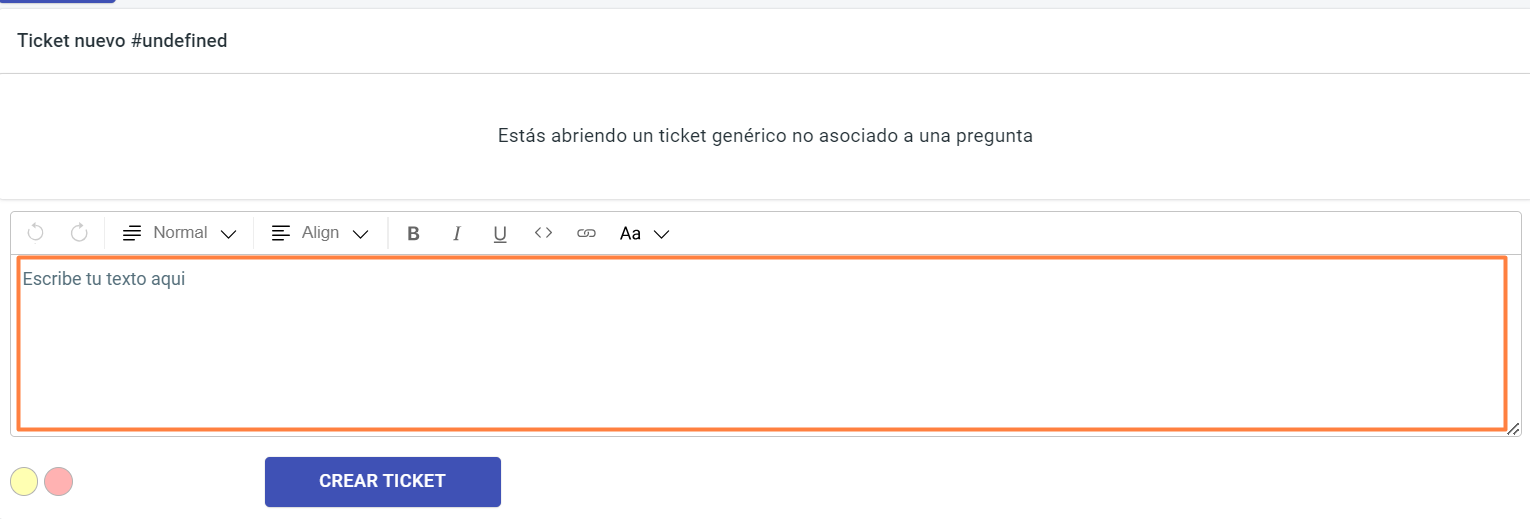
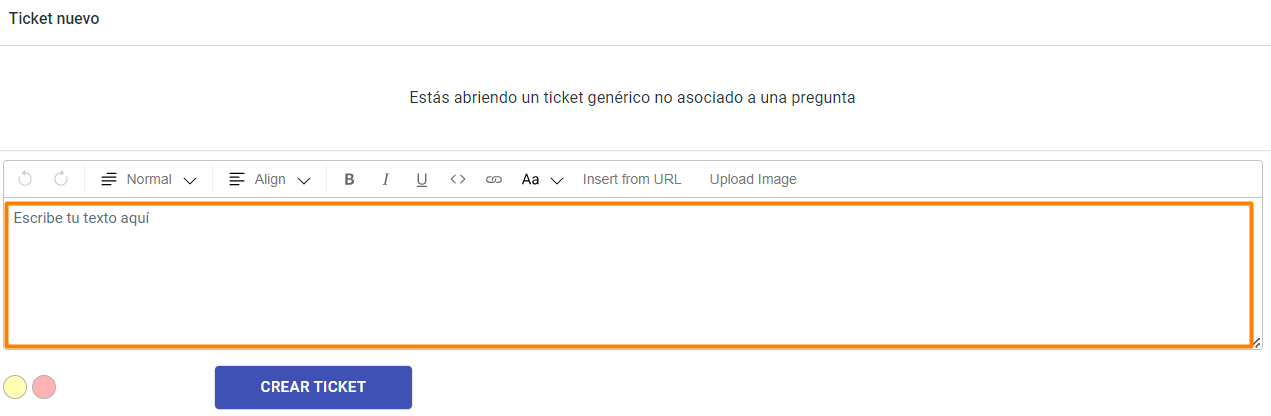
7 10 7

diff --git a/content/docs/Preguntas_de_Mercado_libre/Historico/historico.md b/content/docs/Preguntas_de_Mercado_libre/Historico/historico.md
@@ -34,43 +34,3 @@ Para visualizar el histórico de preguntas:
 {{< figure width="700px" height="500px" src="/images/general/historico5.png" >}}
 9. Si deseas borrar los filtros seleccionados, presiona el botón LIMPIAR.
 {{< figure width="700px" height="500px" src="/images/general/historico6.png" >}}
-
-### Información disponible para cada pregunta del Histórico
-
-A continuación se describirá la información que puedes visualizar para cada pregunta contenida dentro del listado Histórico.
-1. En la sección superior se detallan:
-{{< figure width="840px" height="600px" src="/images/general/historico8.png" >}}
-    1. Título de la publicación. Presionando sobre la misma se abrirá en una nueva ventana la publicación en Mercado Libre.
-    2. Información sobre la publicación consultada: Precio, stock y estado.
-    3. Usuario y Ubicación: informa el nickname del usuario que realiza la pregunta y su ubicación.
-    4. Id: id ítem corresponde al id de la publicación asociada a la pregunta (en caso de que corresponda también se mostrará el SKU y/o el GTIN) y debajo el ID de la pregunta.
-    5. Estado: Hace referencia al estado de la pregunta. Los estados posibles son: Procesada, No procesada, Recibida, Eliminada y Error.
-    6. Subestado: Cada pregunta tiene un subestado. En el subestado se detalla, por ejemplo, si la respuesta se envió en modo Automático (Automática) o fue generada la respuesta y quedó pendiente para revisión y envío manual (Manual).
-    7. Indica la configuración que definió el comportamiento de respuesta. Por ejemplo, para el caso de la imagen, La respuesta quedó con estado Procesada y Subestado Manual por stock (es decir, se generó la respuesta pero no se envió en forma automática), dado que la tienda tiene definido ese comportamiento para las preguntas que ingresan en ese horario (Configuración Horarios) y son referidas a stock (Stock).
-2. En la sección central se visualiza la pregunta ingresada, con su fecha y hora, y la respuesta generada por nuestro modelo, con la fecha y hora en que fue generada, si el comportamiento de respuesta está configurado para que la misma se genere.
-{{< figure width="840px" height="600px" src="/images/general/historico9.png" >}}
-3.  A continuación tienes la posibilidad de calificar la calidad de nuestra respuesta presionando los círculos de color verde, amarillo y rojo en función de tu evaluación: Respuesta excelente, Respuesta mejorable y Respuesta incorrecta. Y en el espacio Calificar respuesta puedes ingresar un comentario asociado a la calificación que acabas de realizar, que nos ayudará a implementar las mejoras que sean necesarias.
-{{< figure width="840px" height="600px" src="/images/general/historico10.png" >}}
-4. Finalmente, en la parte inferior se detalla la respuesta que fue enviada a Mercado Libre, y la fecha y hora en que fue enviada. En caso de que la respuesta enviada haya sido exactamente la respuesta generada por la plataforma, se leerá la leyenda: Respuesta generada automáticamente por Botmeni. Caso contrario, se visualizará la respuesta enviada a Mercado Libre con las modificaciones que tu tienda haya realizado.
-{{< figure width="840px" height="600px" src="/images/general/historico11.png" >}}
-5. Cada respuesta tiene disponible en la esquina superior derecha la acción Visualizar.
-{{< figure width="840px" height="600px" src="/images/general/historico12.png" >}}
-Al presionar la acción Visualizar se desplegará el chat completo de interacción con el usuario y también tendrás disponible el contenido de la publicación.
-
-### Calificar una respuesta de una pregunta del Histórico.
-
-Para calificar una respuesta, una vez que estás visualizando el listado de Preguntas del Histórico:
-1. Ingresa el comentario o sugerencia que quieras comunicarnos en el campo Calificar respuesta. Esto no es obligatorio en caso de que tu calificación sea Respuesta excelente (círculo verde).
-{{< figure width="840px" height="600px" src="/images/general/historico13.png" >}}
-2. Selecciona el círculo verde, amarillo o rojo en función de cómo deseas calificar la respuesta generada: Respuesta excelente, Mejorable o Incorrecta.
-{{< figure width="840px" height="600px" src="/images/general/historico14.png" >}}<br></br>
-La calificación de las respuestas nos permite incorporar las mejoras o modificaciones necesarias. Además, al calificar una respuesta como mejorable o incorrecta se genera un ticket, para aquellos planes que lo tienen como funcionalidad disponible y siempre que no se haya alcanzado el límite mensual. Puedes ingresar a la sección [Herramientas de Comunicación - Tickets](../../Herramientas_comunicacion/Tickets.md) para conocer más acerca del funcionamiento de los Tickets en nuestra plataforma.<br></br>
-
-### Descargar Listado de preguntas.
-
-Para descargar el listado de preguntas en un archivo de tipo excel, una vez que estás visualizando el módulo histórico:
-1. Selecciona el o los filtros que deseas aplicar en función de las preguntas que te interese descargar, siguiendo los pasos detallados en la sección [Visualizar preguntas del histórico](../Historico/historico.md). 
-2. Presiona el botón DESCARGAR
-{{< figure width="840px" height="600px" src="/images/general/historico15.png" >}}<br></br>
-
-Siguiendo los pasos detallados en la sección [Funcionalidades y beneficios incluidos según el plan](../../Suscripcíon_y_Pagos/Tu_Suscripcion/Conocer_beneficios_planes.md) podrás visualizar cuáles planes tienen incluida la funcionalidad DESCARGAR recién detallada.

diff --git a/content/docs/Preguntas_de_Mercado_libre/Historico/informacion.md b/content/docs/Preguntas_de_Mercado_libre/Historico/informacion.md
@@ -1,0 +1,30 @@
+---
+weight: 1020
+title: "Información disponible para cada pregunta del Histórico"
+description: "Información disponible para cada pregunta del Histórico"
+icon: "category"
+color: "primary"
+date: "2024-04-08T23:13:49-05:00"
+lastmod: "2024-04-08T23:13:49-05:00"
+draft: false
+toc: true
+---
+A continuación se describirá la información que puedes visualizar para cada pregunta contenida dentro del listado Histórico.
+1. En la sección superior se detallan:
+{{< figure width="840px" height="600px" src="/images/general/historico8.png" >}}
+    1. Título de la publicación. Presionando sobre la misma se abrirá en una nueva ventana la publicación en Mercado Libre.
+    2. Información sobre la publicación consultada: Precio, stock y estado.
+    3. Usuario y Ubicación: informa el nickname del usuario que realiza la pregunta y su ubicación.
+    4. Id: id ítem corresponde al id de la publicación asociada a la pregunta (en caso de que corresponda también se mostrará el SKU y/o el GTIN) y debajo el ID de la pregunta.
+    5. Estado: Hace referencia al estado de la pregunta. Los estados posibles son: Procesada, No procesada, Recibida, Eliminada y Error.
+    6. Subestado: Cada pregunta tiene un subestado. En el subestado se detalla, por ejemplo, si la respuesta se envió en modo Automático (Automática) o fue generada la respuesta y quedó pendiente para revisión y envío manual (Manual).
+    7. Indica la configuración que definió el comportamiento de respuesta. Por ejemplo, para el caso de la imagen, La respuesta quedó con estado Procesada y Subestado Manual por stock (es decir, se generó la respuesta pero no se envió en forma automática), dado que la tienda tiene definido ese comportamiento para las preguntas que ingresan en ese horario (Configuración Horarios) y son referidas a stock (Stock).
+2. En la sección central se visualiza la pregunta ingresada, con su fecha y hora, y la respuesta generada por nuestro modelo, con la fecha y hora en que fue generada, si el comportamiento de respuesta está configurado para que la misma se genere.
+{{< figure width="840px" height="600px" src="/images/general/historico9.png" >}}
+3.  A continuación tienes la posibilidad de calificar la calidad de nuestra respuesta presionando los círculos de color verde, amarillo y rojo en función de tu evaluación: Respuesta excelente, Respuesta mejorable y Respuesta incorrecta. Y en el espacio Calificar respuesta puedes ingresar un comentario asociado a la calificación que acabas de realizar, que nos ayudará a implementar las mejoras que sean necesarias.
+{{< figure width="840px" height="600px" src="/images/general/historico10.png" >}}
+4. Finalmente, en la parte inferior se detalla la respuesta que fue enviada a Mercado Libre, y la fecha y hora en que fue enviada. En caso de que la respuesta enviada haya sido exactamente la respuesta generada por la plataforma, se leerá la leyenda: Respuesta generada automáticamente por Botmeni. Caso contrario, se visualizará la respuesta enviada a Mercado Libre con las modificaciones que tu tienda haya realizado.
+{{< figure width="840px" height="600px" src="/images/general/historico11.png" >}}
+5. Cada respuesta tiene disponible en la esquina superior derecha la acción Visualizar.
+{{< figure width="840px" height="600px" src="/images/general/historico12.png" >}}
+Al presionar la acción Visualizar se desplegará el chat completo de interacción con el usuario y también tendrás disponible el contenido de la publicación.

diff --git a/content/docs/Herramientas_comunicacion/notificaciones.md b/content/docs/Herramientas_comunicacion/notificaciones.md
@@ -1,7 +1,7 @@
 ---
 weight: 1750
 title: "Notificaciones"
-description: "Gestión de notificaciones"
+description: "Centralización de notificaciones"
 icon: "quick_phrases"
 color: "primary"
 date: "2024-04-08T23:13:49-05:00"
@@ -9,4 +9,21 @@ lastmod: "2024-04-08T23:13:49-05:00"
 draft: false
 toc: true
 ---
-notificaciones
+El módulo notificaciones centraliza todas las comunicaciones generadas en la plataforma asociadas a la tienda, tanto las enviadas vía correo electrónico (email) como por mensaje directo a la computadora o celular (push).<br></br>
+El listado de notificaciones presenta de forma centralizada, para cada usuario, las distintos mensajes y avisos asociadas tanto al usuario en particular (por ej, se envió mail por solicitud de reseteo de contraseña) como vinculados a su rol en la plataforma (por ej, existe una pregunta pendiente o se está alcanzando el límite de preguntas mensuales contratadas).<br></br>
+
+### Visualizar una notificación
+Para visualizar el listado de notificaciones:
+1. Inicia sesión en nuestra página <https://prod.botmeni.com/login>.
+2. Selecciona el módulo Notificaciones en el menú.
+{{< figure width="140px" height="100px" src="/images/general/notificacion1.png" >}}
+3. La primer sección del módulo contiene los filtros disponibles que se pueden aplicar en el listado. Al seleccionarlos, definirás las notificaciones que se visualizan en función de la o las características que selecciones en los mismos. 
+{{< figure width="700px" height="500px" src="/images/general/notificacion2.png" >}}
+4. Por ejemplo, si quisieras filtrar por la clase de notificación para visualizar sólo aquellas son de un tipo determinado, debes desplegar las opciones disponibles para el filtro Tipo y seleccionar el correspondiente.
+{{< figure width="700px" height="500px" src="/images/general/notificacion3.png" >}}
+6. Una vez definido el o los filtros que deseas aplicar, presiona el botón FILTRAR. Las notificaciones visibles en el listado serán aquellas que cumplen con todas las condiciones establecidas en los filtros.
+{{< figure width="700px" height="500px" src="/images/general/notificacion4.png" >}}
+7. Si deseas borrar los filtros seleccionados, presiona el botón LIMPIAR.
+{{< figure width="700px" height="500px" src="/images/general/notificacion5.png" >}}
+8. Al presionar sobre cualquiera de las notificaciones del listado, se abrirá una pantalla con el detalle completo.
+{{< figure width="700px" height="500px" src="/images/general/notificacion6.png" >}}

diff --git a/content/docs/Herramientas_comunicacion/Tickets.md b/content/docs/Herramientas_comunicacion/Tickets.md
@@ -26,12 +26,14 @@ Para conocer los tickets asociados a tu cuenta de Botmeni:
 {{< figure width="700px" height="500px" src="/images/general/tik4.png" >}}
 7. Si deseas borrar los filtros seleccionados, presiona el botón LIMPIAR.
 {{< figure width="700px" height="500px" src="/images/general/tik5.png" >}}
+8. Al presionar sobre cualquiera de los tickets del listado, se abrirá una pantalla con el detalle completo del mismo, mostrando en primer lugar la pregunta cuya calificación lo generó, si ese fuera el caso, o el primer comentario que se ingresó al crear el ticket (para los tickets genéricos no asociados a una pregunta).
+{{< figure width="700px" height="500px" src="/images/general/tik18.png" >}}
 
 ### Crear un nuevo ticket no asociado a una pregunta
 Para crear un nuevo ticket genérico no asociado a una pregunta, una vez que estás visualizando el módulo:
 1. Presiona el botón NUEVO TICKET, ubicado debajo de la sección de filtros.
 {{< figure width="700px" height="500px" src="/images/general/tik6.png" >}}
-2. Ingresa en el recuadro disponible el mensaje que necesitas comunicarnos (consultas, sugerencias, etc.).
+2. Ingresa en el recuadro disponible el mensaje que necesitas comunicarnos (consultas, sugerencias, etc.). Puedes incluir imágenes o links si lo consideras conveniente.
 {{< figure width="700px" height="500px" src="/images/general/tik7.png" >}}
 3. Califica tu consulta seleccionando el círculo amarillo o rojo según lo consideres.
 {{< figure width="700px" height="500px" src="/images/general/tik8.png" >}}

diff --git a/content/docs/Preguntas_de_Mercado_libre/Historico/calificar.md b/content/docs/Preguntas_de_Mercado_libre/Historico/calificar.md
@@ -1,0 +1,20 @@
+---
+weight: 1025
+title: "Calificar respuestas del Histórico"
+description: "Calificar respuestas del Histórico"
+icon: "category"
+color: "primary"
+date: "2024-04-08T23:13:49-05:00"
+lastmod: "2024-04-08T23:13:49-05:00"
+draft: false
+toc: true
+---
+
+### Calificar una respuesta de una pregunta del Histórico.
+
+Para calificar una respuesta, una vez que estás visualizando el listado de Preguntas del Histórico:
+1. Ingresa el comentario o sugerencia que quieras comunicarnos en el campo Calificar respuesta. Esto no es obligatorio en caso de que tu calificación sea Respuesta excelente (círculo verde).
+{{< figure width="840px" height="600px" src="/images/general/historico13.png" >}}
+2. Selecciona el círculo verde, amarillo o rojo en función de cómo deseas calificar la respuesta generada: Respuesta excelente, Mejorable o Incorrecta.
+{{< figure width="840px" height="600px" src="/images/general/historico14.png" >}}<br></br>
+La calificación de las respuestas nos permite incorporar las mejoras o modificaciones necesarias. Además, al calificar una respuesta como mejorable o incorrecta se genera un ticket, para aquellos planes que lo tienen como funcionalidad disponible y siempre que no se haya alcanzado el límite mensual. Puedes ingresar a la sección [Herramientas de Comunicación - Tickets](../../Herramientas_comunicacion/Tickets.md) para conocer más acerca del funcionamiento de los Tickets en nuestra plataforma.<br></br>

diff --git a/content/docs/Preguntas_de_Mercado_libre/Historico/descargar.md b/content/docs/Preguntas_de_Mercado_libre/Historico/descargar.md
@@ -1,0 +1,19 @@
+---
+weight: 1030
+title: "Descargar preguntas del Histórico"
+description: "Descargar preguntas del Histórico"
+icon: "category"
+color: "primary"
+date: "2024-04-08T23:13:49-05:00"
+lastmod: "2024-04-08T23:13:49-05:00"
+draft: false
+toc: true
+---
+### Descargar Listado de preguntas.
+
+Para descargar el listado de preguntas en un archivo de tipo excel, una vez que estás visualizando el módulo histórico:
+1. Selecciona el o los filtros que deseas aplicar en función de las preguntas que te interese descargar, siguiendo los pasos detallados en la sección [Visualizar preguntas del histórico](../Historico/historico.md). 
+2. Presiona el botón DESCARGAR
+{{< figure width="840px" height="600px" src="/images/general/historico15.png" >}}<br></br>
+
+Siguiendo los pasos detallados en la sección [Funcionalidades y beneficios incluidos según el plan](../../Suscripcíon_y_Pagos/Tu_Suscripcion/Conocer_beneficios_planes.md) podrás visualizar cuáles planes tienen incluida la funcionalidad DESCARGAR recién detallada.
